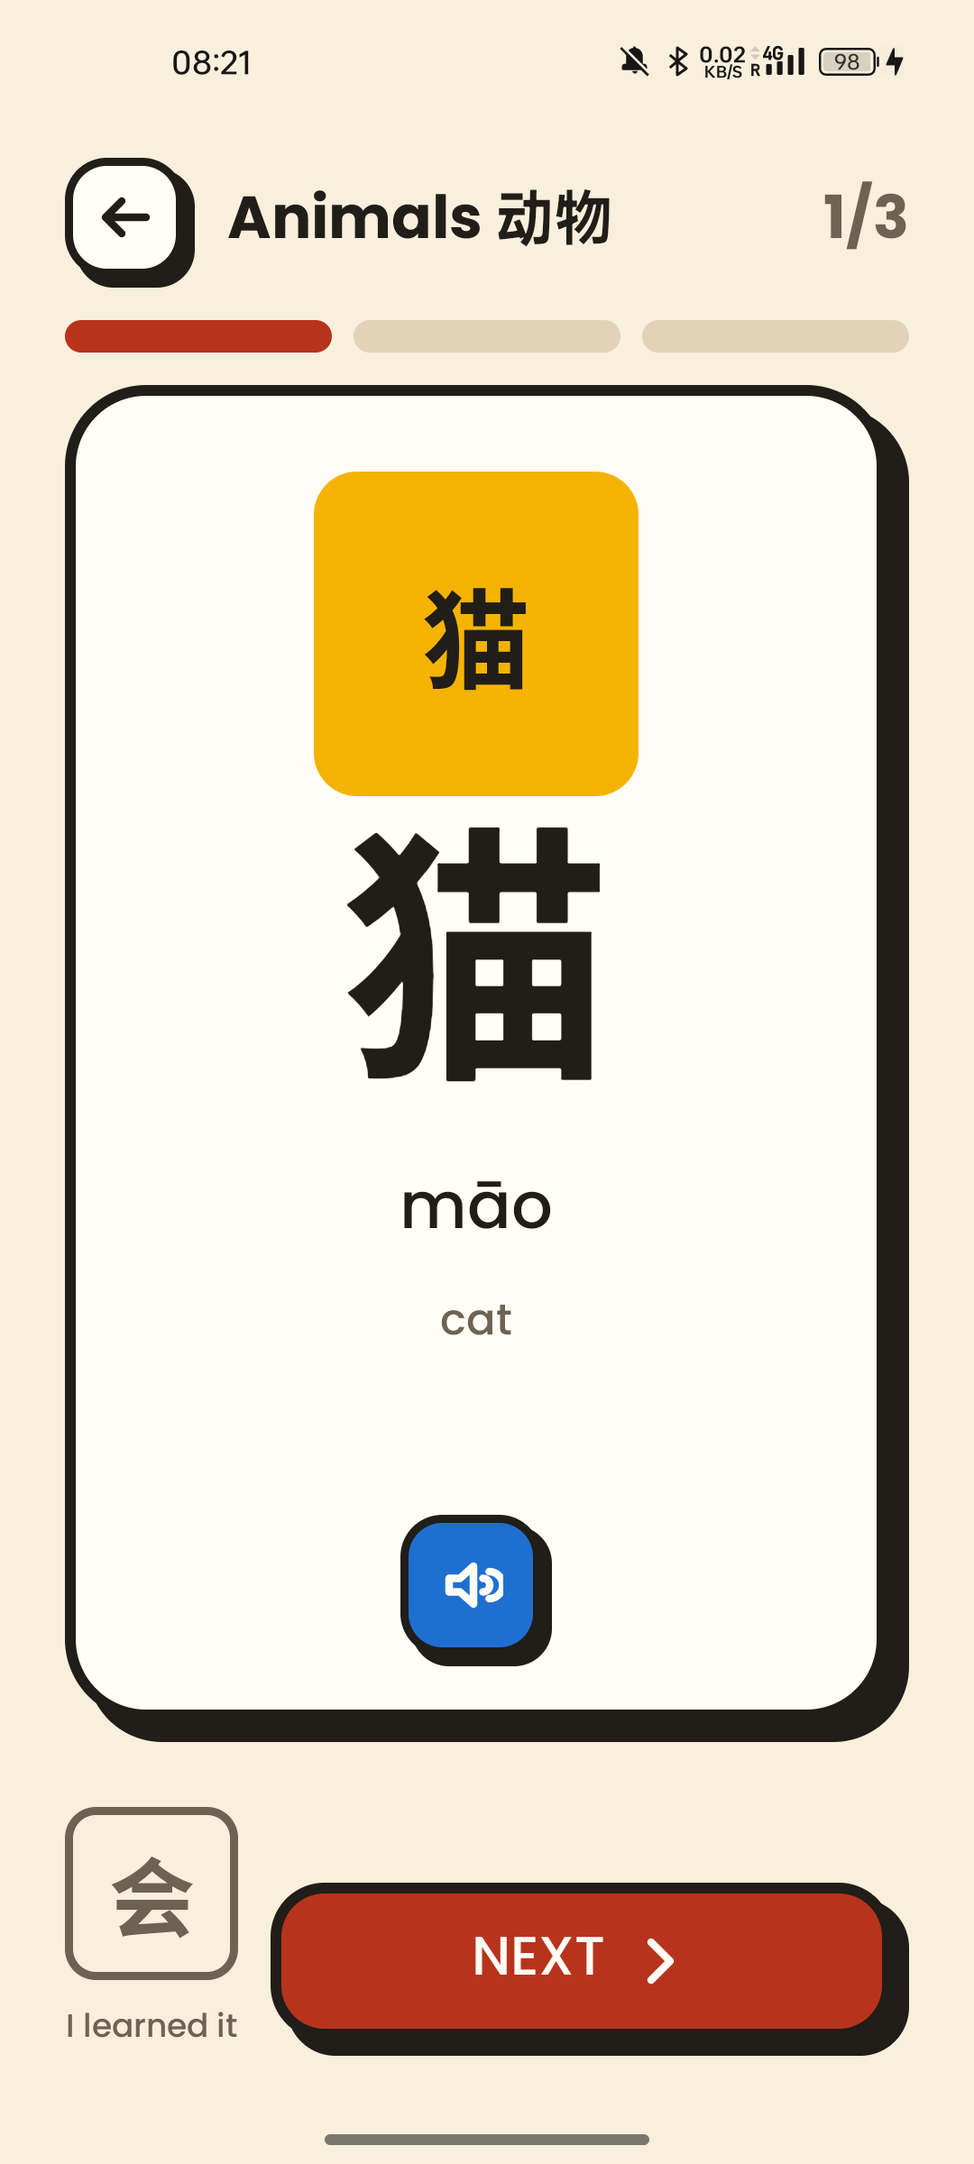
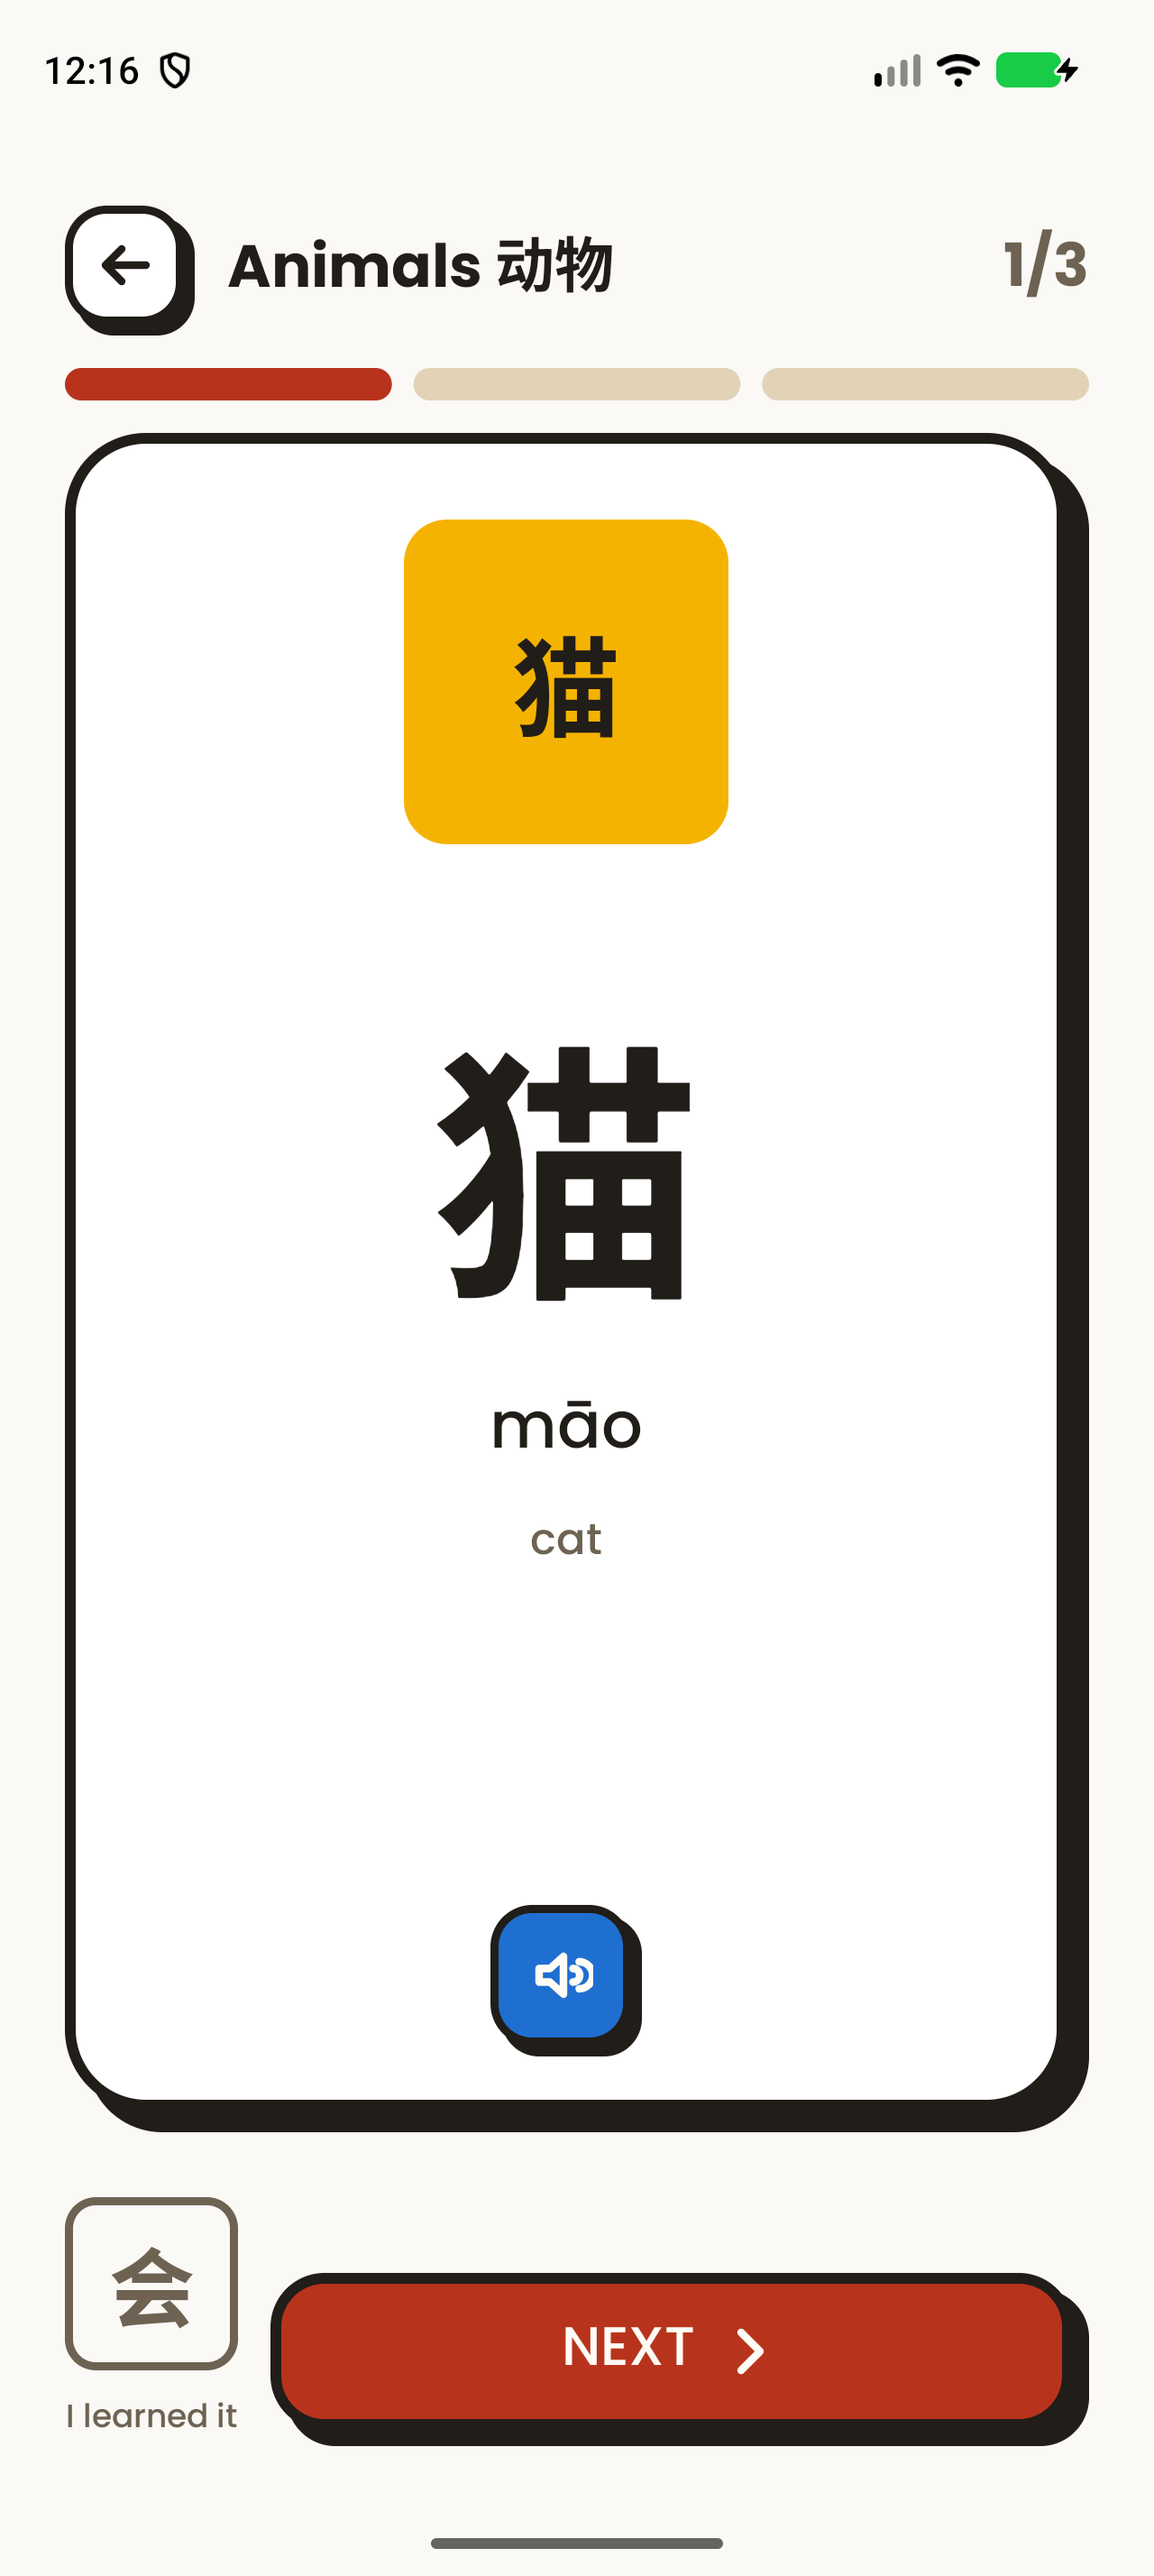
docs: simplify README and refresh screenshots
Remove the task/completion preview notes, culture-simplification note, and five design-choice bullets. Reorganize the remaining content into a parent-settings section and regenerate hero, quiz, flashcard, and reward screenshots from the current warm-white build.

diff --git a/README.md b/README.md
@@ -29,28 +29,16 @@
 
 <table>
 <tr>
-<td align="center" width="50%"><img src="docs/screenshots/readme/feature_quiz.png" width="230" /><br/>
+<td align="center" width="50%"><img src="docs/screenshots/readme/feature_quiz.png" width="230" alt="测验：答错显示陶土色并直接给出答案" /><br/>
 <b>字</b><br/><sub>识字卡 → 四选一测验 → 学习完成。答错变陶土色，直接给答案。</sub></td>
-<td align="center" width="50%"><img src="docs/screenshots/readme/feature_player.png" width="230" /><br/>
+<td align="center" width="50%"><img src="docs/screenshots/readme/feature_player.png" width="230" alt="播放器：歌词逐句高亮" /><br/>
 <b>文</b><br/><sub>儿歌、故事、古诗。锁屏能听，歌词逐句高亮，支持暂停、切歌和拖动进度。</sub></td>
 </tr>
 </table>
 
-首页 Learning plan → PIN 验证 → 每日识字目标、学习提醒时间与星期。首次引导只保留目标和提醒；第一次打开任务页才创建 PIN。学习历史继续保存在本机，不再提供限时、休息、加时、统计和按天记录页面（[D33](docs/DECISIONS.md#d33--2026-10-24--家长页仅配置学习任务)）。
+## 家长设置
 
-任务页预览：[浅色](docs/screenshots/learning-plan/learning_plan_light.png) · [深色](docs/screenshots/learning-plan/learning_plan_dark.png)。
-
-完成页预览：[浅色](docs/screenshots/no-stars/completion_light.png) · [深色](docs/screenshots/no-stars/completion_dark.png)。星星展示、累计及音效已移除；已有识字进度和学习记录保留。
-
-文化播放已精简：删除收藏和睡前定时，保留分类浏览、歌词及后台播放（[查看新版播放器](docs/screenshots/simple-playback/player_light.png) · [D36](docs/DECISIONS.md#d36--2026-10-24--删除收藏与睡前定时)）。
-
-## 设计上的五个选择
-
-- **一屏一个实心按钮** —— 孩子不会点错，也不会有第二个「现在该做什么」
-- **答错不惩罚** —— 陶土色 + 轻轻抖一下 + 直接告诉答案，没有红屏
-- **进度看得见** —— 用字块展示今日进度，完成一轮回顾本轮学过的字
-- **完全离线** —— 没有 `INTERNET` 权限，字库、录音、插画全部内置
-- **任务可调整** —— 每天 1–10 个新字，每轮最多 3 个；目标修改次日生效
+首页 **Learning plan** → PIN 验证 → 每日识字目标、学习提醒时间与星期。首次引导只保留目标和提醒；第一次打开任务页才创建 PIN。学习记录保存在本机。
 
 ## 架构
 
@@ -97,7 +85,7 @@ adb install -r app/build/outputs/apk/debug/app-debug.apk
 | [**设计书**](docs/DESIGN.md) | 每屏的目的 / 结构 / 交互 / 状态 / 不要，31 张整屏设计图 |
 | [**工程技术文档**](docs/ENGINEERING.md) | 数据模型、业务逻辑、组件规格、逐屏实现要点 |
 | [**验收清单**](docs/ACCEPTANCE.md) | 20 项结果与证据：对比度、权限、进程恢复、APK 体积 |
-| [**决策记录**](docs/DECISIONS.md) | 36 条「为什么不那样做」 |
+| [**决策记录**](docs/DECISIONS.md) | 38 条「为什么不那样做」 |
 | [**协作指南**](CONTRIBUTING.md) | 环境、提交前自检、代码约定 |
 | [**截图归档**](docs/screenshots) | M1 → M8 每屏的浅色 / 深色真机截图 |
 
